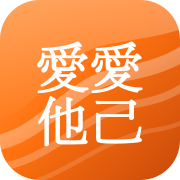
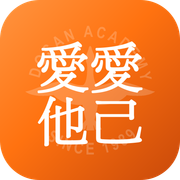
앱 아이콘 배경 무늬를 물결에서 기러기로 교체
- public/brand/goose.png 를 배경 무늬로 씁니다. 700x700 투명 PNG라
  알파 채널을 그대로 써서 정확히 따냈습니다. 캔버스의 92%를 채우는
  실루엣이고 칠해진 면적은 17.7% 입니다.
  파일 이름에 한글이 있으면 다루기 번거로워 goose.png 로 바꿨습니다.
- 아이콘 생성기가 사진에서 실루엣을 따내도록 고쳤습니다. 투명 배경이면
  알파를 그대로 쓰고, 아니면 테두리 픽셀을 표본 삼아 배경이 밝은지
  어두운지 판단한 뒤 밝기 차이로 잘라냅니다.
  잘못 따내면(면적 1% 미만 또는 70% 초과) 경고를 띄우고 예전 물결 무늬로
  되돌아가므로 이상한 아이콘이 만들어지지 않습니다.
- sharp는 한 파이프라인에서 resize를 composite보다 먼저 적용합니다.
  그대로 두면 크기가 어긋나 합성이 실패하므로, 1024로 다 합친 뒤
  따로 줄이도록 두 단계로 나눴습니다.

배경 그라데이션 색은 그대로 두었습니다.

diff --git a/public/brand/README.md b/public/brand/README.md
@@ -13,6 +13,24 @@
 
 파일이 없어도 앱은 정상 동작합니다. 배경 없이 따뜻한 오프화이트만 보입니다.
 
+## `goose.png` — 앱 아이콘 배경 무늬 (기러기)
+
+앱 아이콘의 주황 바탕 위에 흰색 반투명으로 은은하게 깔리는 기러기 실루엣입니다.
+
+- 파일 이름: **`goose.png`** (`.jpg` / `.webp` 도 됩니다)
+- **배경이 투명한 PNG가 가장 깔끔합니다.** 투명도를 그대로 써서 정확히 잘립니다.
+- 투명 배경이 아니면 밝기 차이로 모양을 잡아냅니다.
+  하늘처럼 배경이 단순한 사진일수록 잘 따집니다.
+
+파일을 바꾼 뒤에는 아이콘을 다시 구워야 합니다.
+
+```bash
+npm run icons
+```
+
+실루엣을 제대로 못 따내면(화면의 1% 미만이거나 70% 초과) 경고를 띄우고
+예전 물결 무늬로 되돌아가므로, 이상한 아이콘이 만들어지지는 않습니다.
+
 ## `logo.png` — 애기애타 서예 로고 (선택)
 
 `愛己愛他` 서예 로고 원본입니다. 아직 화면에 연결하지 않았습니다.
